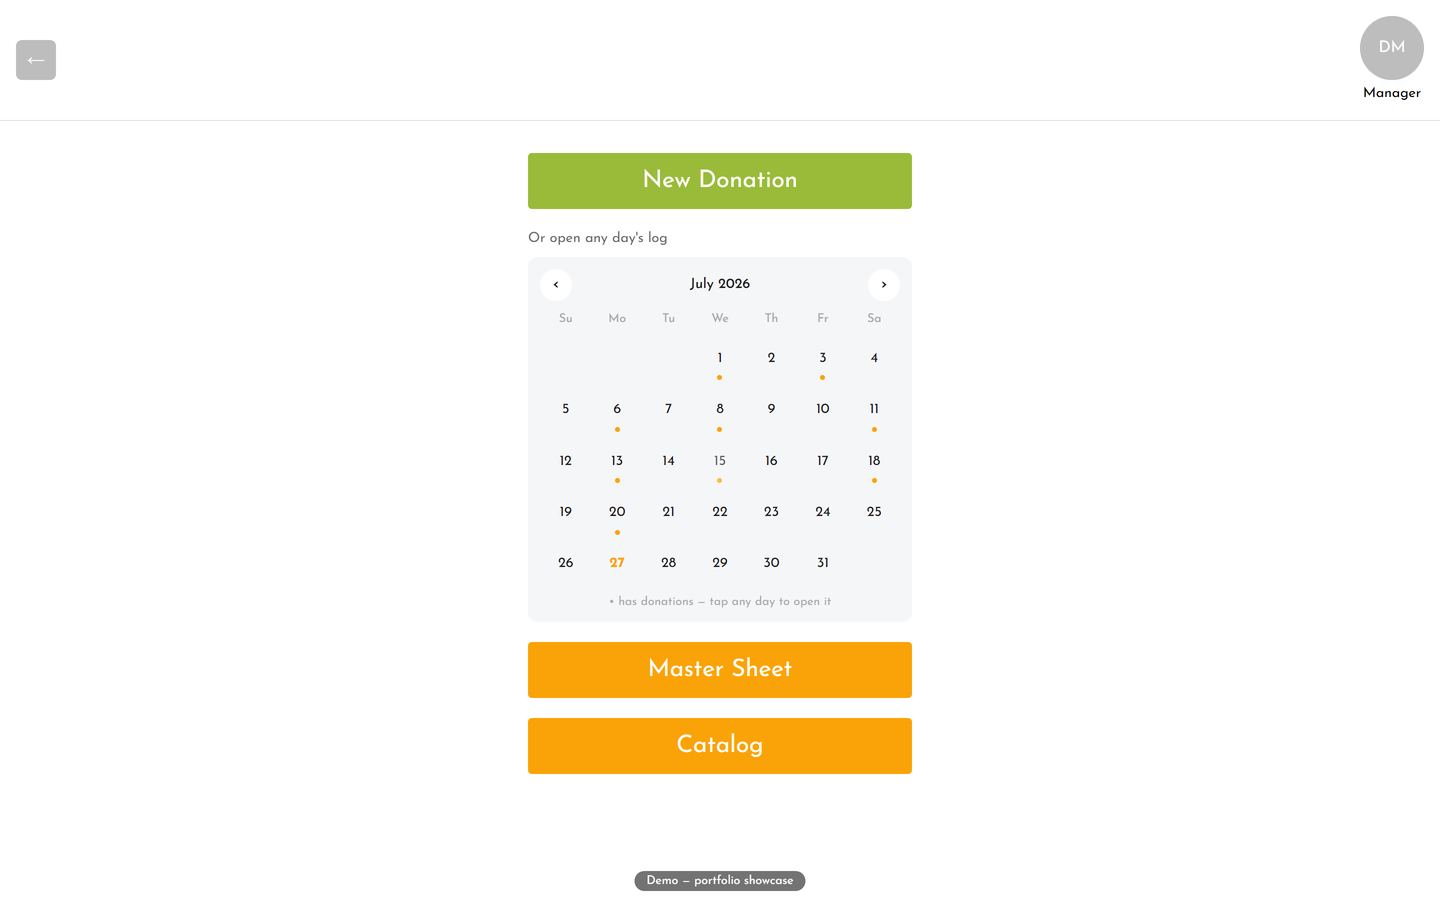
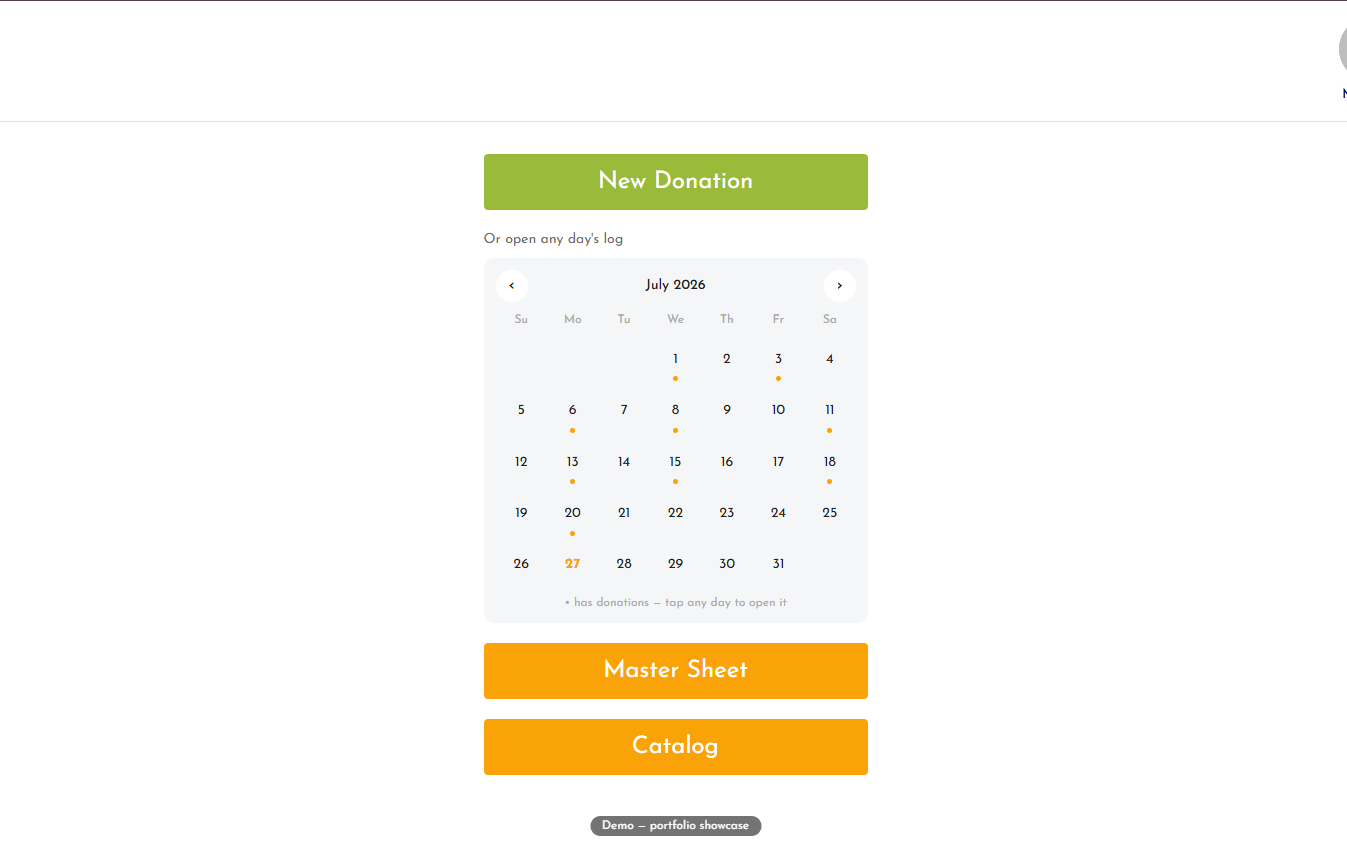
v4: case study navigation, the device cluster, and a rebuilt laptop frame
Case study pages, as asked and in this order: the maroon "Case study" label
becomes "Back to all case studies" with a left arrow, top left, where a
reader looks for the way out. The live link sits directly under the summary,
which is the first place anyone wants it and the reason most of them opened
the page. The specification strip follows. Lesson learned moves to the very
bottom, because a reader only recognises a takeaway as one after reading what
produced it. The footer carries back on the left and the live link on the
right, and the sticky bar carries them the other way round.

Device cluster: Momchil's own three captures replace mine, and the laptop,
tablet and phone now overlap the monitor rather than standing beside it. The
tablet and phone are scaled against the monitor at roughly a half and a
third, which is their real proportion and what stops the group reading as
four unrelated pictures.

Laptop frame rebuilt from scratch. Every previous version stacked lid, hinge
and base as flex siblings, so the base's width depended on the lid's and the
lid's on a percentage height. The resolution order was never guaranteed and
the base kept detaching. It is now one box with a fixed outer ratio and both
parts positioned inside it as percentages; they meet by construction. Width
drives the ratio rather than height, which also stops the screen cropping
into the middle of the screenshot.

Hero: the contact links now sit exactly level with the bottom of the
[…]

diff --git a/src/components/DeviceBundle.tsx b/src/components/DeviceBundle.tsx
@@ -2,27 +2,28 @@ import Image from "next/image";
 import type { CaseStudyImage } from "@/content/case-studies";
 
 /*
-  The conventional four-device product shot: monitor centred and behind,
-  laptop to its left, phone and tablet in front on the right.
+  The conventional four-device product shot.
 
-  It is conventional because it reads instantly. One product on this site runs
-  on whatever screen the centre has to hand, and a single phone screenshot
-  said none of that.
+  Monitor centred and behind at full height, then the other three overlapping
+  its lower edge rather than standing beside it: laptop left, phone and tablet
+  right. Standing apart they read as four separate pictures at four unrelated
+  sizes; overlapping, they read as one object.
+
+  Sizes are set against the monitor deliberately. A tablet is roughly half a
+  monitor's height and a phone roughly a third, so those proportions hold
+  here, which is what stops the cluster looking like clip art.
 
   Composed in CSS from real captures rather than baked into an image, so every
   screen stays sharp at any size and any one of them can be swapped without
-  opening an editor. Percentages throughout, so the cluster scales with its
-  container. Stacking order runs back to front in the DOM.
+  opening an editor. Stacking order runs back to front in the DOM.
 */
 
 function Screen({
   image,
   sizes,
-  className,
 }: {
   image: CaseStudyImage;
   sizes: string;
-  className: string;
 }) {
   return (
     <Image
@@ -31,7 +32,7 @@ function Screen({
       width={image.width ?? 960}
       height={image.height ?? 600}
       sizes={sizes}
-      className={className}
+      className="h-full w-full object-cover object-top"
     />
   );
 }
@@ -51,72 +52,55 @@ export default function DeviceBundle({
 }) {
   return (
     <div className={`relative ${className}`}>
-      {/* Monitor: centred, back, and the largest thing in the cluster. */}
-      <div className="absolute left-[20%] top-0 w-[60%]">
-        <div className="rounded-[0.5rem] bg-ink p-[0.4rem] shadow-[0_14px_34px_rgba(16,24,32,0.18)]">
+      {/* Monitor, back and centre. Everything else is scaled against it. */}
+      <div className="absolute left-[16%] top-0 w-[68%]">
+        <div className="rounded-[0.5rem] bg-ink p-[0.4rem] shadow-[0_16px_38px_rgba(16,24,32,0.2)]">
           <div className="aspect-16/10 overflow-hidden rounded-[0.2rem] bg-white">
-            <Screen
-              image={desktop}
-              sizes="(min-width: 768px) 20rem, 45vw"
-              className="h-full w-full object-cover object-top"
-            />
+            <Screen image={desktop} sizes="(min-width: 768px) 24rem, 52vw" />
           </div>
         </div>
-        {/* Stand: neck, then foot. */}
         <div
           aria-hidden="true"
-          className="mx-auto h-[9%] w-[12%] bg-ink/80"
-          style={{ height: "1.6rem" }}
+          className="mx-auto w-[11%] bg-ink/80"
+          style={{ height: "1.5rem" }}
         />
         <div
           aria-hidden="true"
-          className="mx-auto h-[0.35rem] w-[34%] rounded-full bg-ink/80"
+          className="mx-auto h-[0.35rem] w-[30%] rounded-full bg-ink/80"
         />
       </div>
 
-      {/* Laptop: front left, its base overlapping the monitor's foot. */}
-      <div className="absolute bottom-[4%] left-0 w-[43%]">
-        <div className="rounded-t-[0.35rem] bg-ink p-[0.25rem] pb-0 shadow-[0_10px_26px_rgba(16,24,32,0.2)]">
+      {/* Laptop, overlapping the monitor's lower left. */}
+      <div className="absolute bottom-0 left-0 w-[46%]">
+        <div className="rounded-t-[0.35rem] bg-ink p-[0.25rem] pb-0 shadow-[0_12px_28px_rgba(16,24,32,0.22)]">
           <div className="aspect-16/10 overflow-hidden rounded-t-[0.15rem] bg-white">
-            <Screen
-              image={laptop}
-              sizes="(min-width: 768px) 14rem, 34vw"
-              className="h-full w-full object-cover object-top"
-            />
+            <Screen image={laptop} sizes="(min-width: 768px) 16rem, 36vw" />
           </div>
         </div>
         <div aria-hidden="true" className="h-[0.25rem] w-full bg-ink" />
         <div
           aria-hidden="true"
-          className="mx-auto h-[0.3rem] w-[112%] -translate-x-[5.4%] rounded-b-[0.25rem] bg-ink/85"
+          className="h-[0.32rem] w-full rounded-b-[0.3rem] bg-ink/85"
         />
       </div>
 
-      {/* Tablet: front right. */}
-      <div className="absolute bottom-0 right-[1%] w-[27%]">
-        <div className="rounded-[0.55rem] bg-ink p-[0.28rem] shadow-[0_12px_26px_rgba(16,24,32,0.24)]">
-          <div className="aspect-3/4 overflow-hidden rounded-[0.35rem] bg-white">
-            <Screen
-              image={tablet}
-              sizes="(min-width: 768px) 9rem, 22vw"
-              className="h-full w-full object-cover object-top"
-            />
+      {/* Tablet, overlapping the monitor's lower right. */}
+      <div className="absolute bottom-[3%] right-[2%] w-[21%]">
+        <div className="rounded-[0.5rem] bg-ink p-[0.25rem] shadow-[0_12px_26px_rgba(16,24,32,0.26)]">
+          <div className="aspect-3/4 overflow-hidden rounded-[0.3rem] bg-white">
+            <Screen image={tablet} sizes="(min-width: 768px) 7rem, 18vw" />
           </div>
         </div>
       </div>
 
-      {/* Phone: frontmost, carrying the screen that actually matters. */}
-      <div className="absolute bottom-[1%] right-[26%] w-[16%]">
-        <div className="rounded-[0.6rem] bg-ink p-[0.18rem] shadow-[0_14px_28px_rgba(16,24,32,0.3)]">
-          <div className="relative aspect-[9/19] overflow-hidden rounded-[0.48rem] bg-white">
-            <Screen
-              image={phone}
-              sizes="(min-width: 768px) 5rem, 14vw"
-              className="h-full w-full object-cover object-top"
-            />
+      {/* Phone, frontmost, tucked against the tablet. */}
+      <div className="absolute bottom-0 right-[19%] w-[11.5%]">
+        <div className="rounded-[0.5rem] bg-ink p-[0.15rem] shadow-[0_14px_26px_rgba(16,24,32,0.32)]">
+          <div className="relative aspect-[9/19.5] overflow-hidden rounded-[0.4rem] bg-white">
+            <Screen image={phone} sizes="(min-width: 768px) 4rem, 11vw" />
             <span
               aria-hidden="true"
-              className="absolute left-1/2 top-[0.22rem] h-[0.1rem] w-[24%] -translate-x-1/2 rounded-full bg-ink/25"
+              className="absolute left-1/2 top-[0.18rem] h-[0.09rem] w-[26%] -translate-x-1/2 rounded-full bg-ink/25"
             />
           </div>
         </div>

diff --git a/src/app/work/[slug]/page.tsx b/src/app/work/[slug]/page.tsx
@@ -58,9 +58,6 @@ export default async function CaseStudyPage({
             {site.name}
           </Link>
           <div className="flex items-center gap-5">
-            <Link href="/#work" className="text-sm text-ink/60 hover:text-ink">
-              All case studies <span aria-hidden="true">→</span>
-            </Link>
             {cs.liveUrl && (
               <a
                 href={cs.liveUrl}
@@ -71,36 +68,44 @@ export default async function CaseStudyPage({
                 {cs.liveLabel ?? "View live"}
               </a>
             )}
+            <Link href="/#work" className="text-sm text-ink/60 hover:text-ink">
+              All case studies <span aria-hidden="true">→</span>
+            </Link>
           </div>
         </nav>
       </header>
       <main className="wrap py-14 md:py-20">
         <article>
           <header className="max-w-measure">
-            <p className="eyebrow text-crimson">Case study</p>
-            <h1 className="display mt-4 max-w-[24ch] text-4xl md:text-[3.25rem]">
+            {/* The label said "Case study" to someone already reading one.
+                The same slot now does something: it is the way back, at the
+                top left, where a reader looks for it. */}
+            <Link
+              href="/#work"
+              className="eyebrow text-ink/45 transition-colors hover:text-ink"
+            >
+              <span aria-hidden="true">&larr;</span> Back to all case studies
+            </Link>
+            <h1 className="display mt-5 max-w-[24ch] text-4xl md:text-[3.25rem]">
               {cs.title}
             </h1>
             <p className="mt-6 text-lg leading-relaxed text-ink/75">
               {cs.oneLiner}
             </p>
+            {/* The first place a reader wants this, and the reason most of
+                them opened the page. */}
+            {cs.liveUrl && (
+              <a
+                href={cs.liveUrl}
+                target="_blank"
+                rel="noopener noreferrer"
+                className="btn btn-primary mt-7"
+              >
+                {cs.liveLabel ?? "View live"}
+                <span aria-hidden="true">→</span>
+              </a>
+            )}
           </header>
-
-          {/*
-            The decision that shaped the work, placed at the top of the case
-            study rather than on the home page. It is judgment evidence, and
-            judgment only matters to a reader who already believes the person
-            can do the job. By the time someone has opened a case study, they
-            do, and this is the first thing worth telling them.
-          */}
-          {cs.lesson && (
-            <div className="mt-10 max-w-measure border-l-2 border-navy bg-paper-deep/60 p-6">
-              <p className="eyebrow text-ink/45">Lesson learned</p>
-              <p className="mt-3 text-[1.0625rem] leading-relaxed">
-                {cs.lesson}
-              </p>
-            </div>
-          )}
 
           {/*
             The specification runs as a strip directly under the title, not as
@@ -176,7 +181,24 @@ export default async function CaseStudyPage({
             ))}
           </div>
 
-          <footer className="mt-16 flex flex-wrap items-center gap-x-8 gap-y-4 border-t border-line pt-8">
+          {/*
+            The decision that shaped the work, at the end rather than the
+            start. It is the thing worth carrying away, and a reader only
+            recognises it as one after they have read what it produced.
+          */}
+          {cs.lesson && (
+            <div className="mt-14 max-w-measure border-l-2 border-navy bg-paper-deep/60 p-6">
+              <p className="eyebrow text-ink/45">Lesson learned</p>
+              <p className="mt-3 text-[1.0625rem] leading-relaxed">
+                {cs.lesson}
+              </p>
+            </div>
+          )}
+
+          <footer className="mt-14 flex flex-wrap items-center justify-between gap-x-8 gap-y-4 border-t border-line pt-8">
+            <Link href="/#work" className="text-sm text-crimson hover:underline">
+              <span aria-hidden="true">←</span> Back to all case studies
+            </Link>
             {cs.liveUrl && (
               <a
                 href={cs.liveUrl}
@@ -188,9 +210,6 @@ export default async function CaseStudyPage({
                 <span aria-hidden="true">→</span>
               </a>
             )}
-            <Link href="/#work" className="text-sm text-crimson hover:underline">
-              <span aria-hidden="true">←</span> Back to all case studies
-            </Link>
           </footer>
         </article>
       </main>

diff --git a/src/components/DeviceFrame.tsx b/src/components/DeviceFrame.tsx
@@ -75,29 +75,35 @@ export default function DeviceFrame({
   }
 
   if (frame === "laptop") {
+    /*
+      Rebuilt as one box with a fixed outer ratio and both parts positioned
+      inside it as percentages of that box.
+
+      Every earlier version stacked lid, hinge and base as flex siblings and
+      let each one work out its own width, which meant the base's width
+      depended on the lid's, and the lid's depended on a height that was
+      itself a percentage. The resolution order was never guaranteed, so the
+      base kept detaching from the screen. Nothing here depends on anything
+      else: the wrapper's aspect ratio fixes the whole silhouette, the lid
+      occupies the top 94% inset 6% from each side, the base takes the
+      remaining strip at full width, and they meet by construction.
+
+      1.7 is the outer ratio that leaves the screen itself at 16:10.
+    */
     return (
       <div className={`flex items-center justify-center ${className}`}>
-        {/* Height drives width, not the other way round. Sized from its own
-            width the lid was taller than the box it sits in, so it spilled
-            past the card and pushed the grid row out of alignment. */}
-        <div className="flex h-full max-w-full flex-col items-center justify-center">
-          {/* Lid. The screen keeps a 16:10 window on the screenshot, which is
-              what a laptop actually shows, rather than the full page height. */}
-          <div
-            className="min-h-0 rounded-t-[0.5rem] bg-ink p-[0.35rem] pb-0"
-            style={{ height: "calc(100% - 0.75rem)" }}
-          >
-            <div className="aspect-16/10 h-full overflow-hidden rounded-t-[0.25rem] bg-white">
+        {/* Width drives, not height. With h-full the box was clamped to the
+            column's width as well, so the ratio could not hold and the screen
+            cropped into the middle of the screenshot. */}
+        <div className="relative w-full" style={{ aspectRatio: "1.7" }}>
+          <div className="absolute inset-x-[6%] bottom-[6%] top-0 rounded-t-[0.4rem] bg-ink p-[0.3rem] pb-0 shadow-[0_10px_24px_rgba(16,24,32,0.18)]">
+            <div className="h-full w-full overflow-hidden rounded-t-[0.2rem] bg-white">
               {picture}
             </div>
           </div>
-          {/* Hinge, then the base. Both are self-stretch so they track the
-              lid's width exactly; the base used to be set to 108% of its own
-              box, which left it hanging off the screen it belongs to. */}
-          <div aria-hidden="true" className="h-[0.3rem] w-full bg-ink" />
           <div
             aria-hidden="true"
-            className="h-[0.4rem] w-full rounded-b-[0.4rem] bg-ink/85 shadow-[0_6px_14px_rgba(16,24,32,0.18)]"
+            className="absolute inset-x-0 bottom-0 h-[6%] rounded-b-[0.35rem] bg-ink"
           />
         </div>
       </div>

diff --git a/src/components/Hero.tsx b/src/components/Hero.tsx
@@ -17,16 +17,18 @@ import { portrait, site } from "@/content/site";
 export default function Hero() {
   return (
     <section id="top" aria-label="Introduction">
-      <div className="wrap grid gap-10 pt-12 pb-12 md:grid-cols-[1fr_minmax(0,21.25rem)] md:items-start md:gap-16 md:pt-16 md:pb-16">
-        <div className="flex flex-col gap-8 md:gap-10">
+      <div className="wrap grid gap-10 pt-12 pb-12 md:grid-cols-[1fr_minmax(0,21.25rem)] md:items-stretch md:gap-16 md:pt-16 md:pb-16">
+        <div className="flex flex-col gap-8 md:gap-0">
           <p className="eyebrow text-crimson">{site.role}</p>
 
-          <h1 className="display-xl text-[2.75rem] sm:text-6xl lg:text-[5.25rem]">
+          <h1 className="display-xl text-[2.75rem] sm:text-6xl lg:text-[5.25rem] md:mt-8">
             {site.tagline.lead}{" "}
             <em className="not-italic text-navy">{site.tagline.accent}</em>
           </h1>
 
-          <div className="flex flex-col gap-1.5">
+          {/* Centred in the gap the two blocks leave, rather than sitting
+              just under the headline with the rest floating above the photo. */}
+          <div className="flex flex-col gap-1.5 md:my-auto md:py-8">
             <p className="text-2xl font-semibold tracking-[-0.01em]">
               {site.name}
             </p>

diff --git a/src/content/case-studies.ts b/src/content/case-studies.ts
@@ -130,8 +130,8 @@ export const caseStudies: CaseStudy[] = [
       desktop: {
         src: "/wellspring/desktop-dashboard.png",
         alt: "The Wellspring manager dashboard on a desktop monitor: a New Donation button and a month calendar marking every day with donations.",
-        width: 1440,
-        height: 900,
+        width: 1347,
+        height: 842,
       },
       laptop: {
         src: "/wellspring/desktop.png",
@@ -142,14 +142,14 @@ export const caseStudies: CaseStudy[] = [
       tablet: {
         src: "/wellspring/tablet-log.png",
         alt: "A day's log open on a tablet: every item, count, unit and category, with a tab for each volunteer who logged that day.",
-        width: 820,
-        height: 1093,
+        width: 684,
+        height: 912,
       },
       phone: {
         src: "/wellspring/phone-splash.png",
-        alt: "The Wellspring Women's Center splash screen on a phone.",
-        width: 645,
-        height: 1398,
+        alt: "The Wellspring Women's Center loading screen on a phone: the centre's own crest, dignity and love since 1987.",
+        width: 387,
+        height: 840,
       },
     },
     category: "product",
